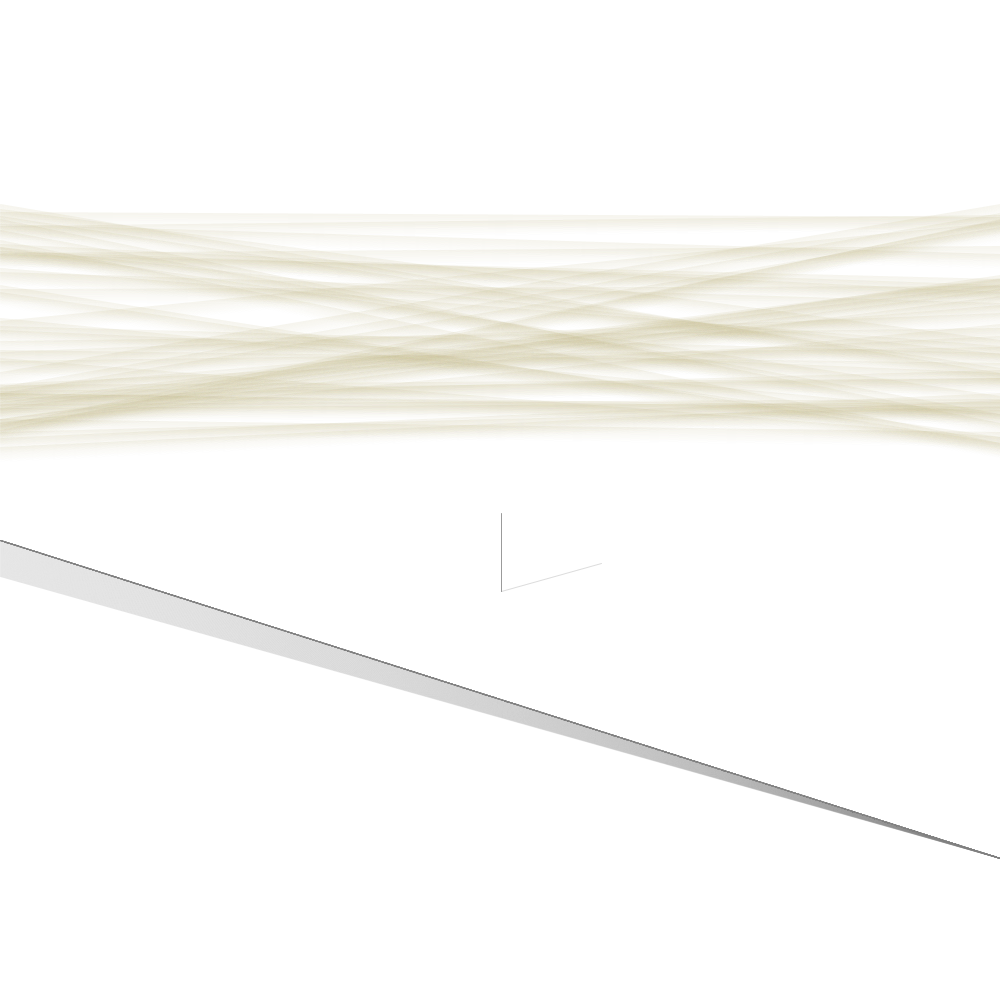
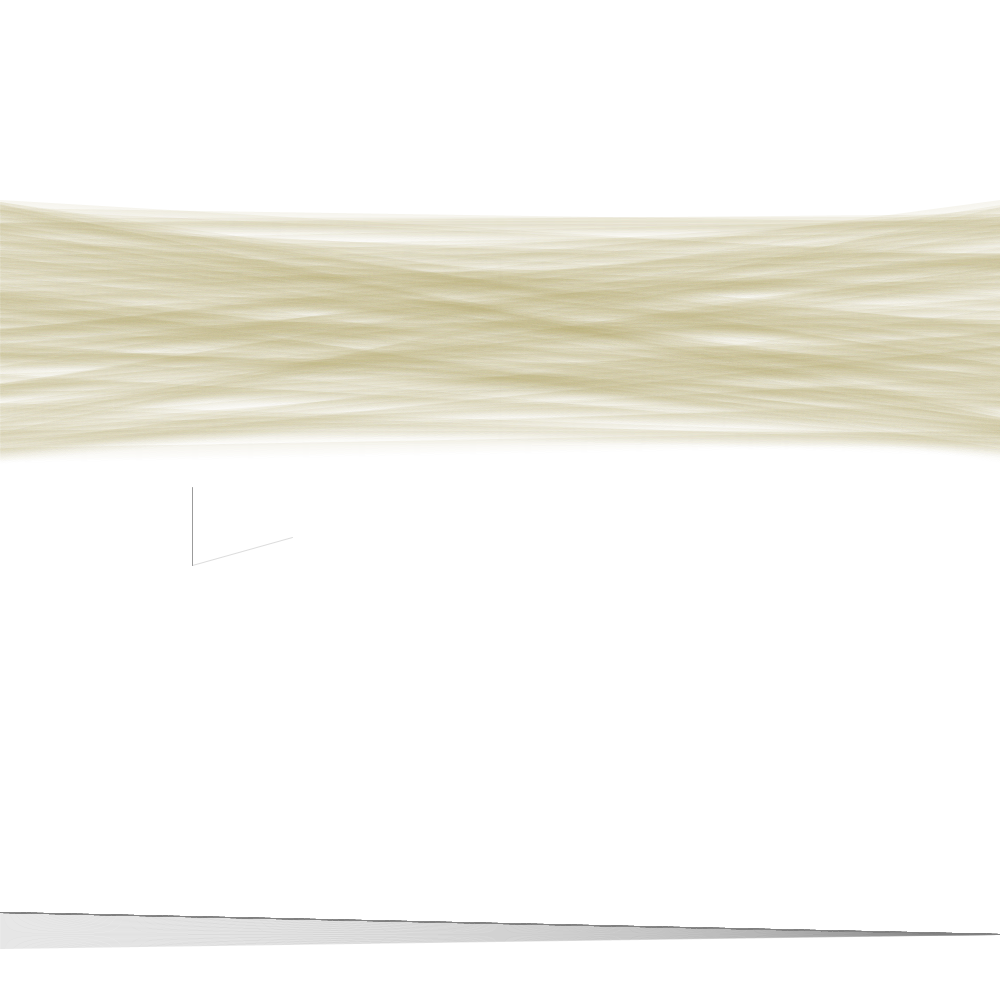
°}[*><*]{°

diff --git a/rust-fragments/blue-lines/src/main.rs b/rust-fragments/blue-lines/src/main.rs
@@ -8,39 +8,41 @@ use nannou::rand::random_range;
 
 fn main() {
     nannou::app(model)
-        .loop_mode(LoopMode::loop_ntimes(199))
+        .loop_mode(LoopMode::loop_ntimes(499))
         .update(update)
-        .simple_window(view)
+        .view(view)
+        //.simple_window(view)
         .run();
 }
 
 struct Model {
-    occam: Vec<f32>
+    occam: Vec<(f32,f32)>
 }
 
 fn model(app: &App) -> Model {
+    app.new_window()
+    .size(1000,1000)
+    .build()
+    .unwrap();
     Model{
         occam:playground(app)
     }
 }
 
-fn playground(app: &App) -> Vec<f32> {
-    let mut v: Vec<f32>;
-    v = Vec::new();
-    let wichita:i32 = random_range(42,66);
-    let mut i:i32=0;
+fn playground(app: &App) -> Vec<(f32,f32)> {
+    let mut v = Vec::new();
+    let wichita = random_range(42,66);
     let win = app.window_rect();
     let h = win.h();
-    let lulllaby:f32 = h/(wichita as f32);
-    let mut y1:f32=h/2.0;
-    let mut y2:f32;
-    while i < wichita { // push wichita pairs of values in v
-        y2 = y1+lulllaby-random_range(-5.0,-1.0);
-        v.push(y1);
-        v.push(y2);
+    let lulllaby = h/(wichita as f32);
+    let mut y1=h/2.0;
+    let mut y2;
+    for _ in 0..wichita{ // push wichita pairs of values in v
+        y2 = y1-lulllaby-random_range(-5.0,-1.0);
+        v.push((y1,y2));
         let bass = y1+lulllaby;
-        y1 = bass;
-        i+=1;
+        println!("y1: {y1}; y2: {y2}");
+        y1 = y1-lulllaby;
     }
     return v
 }
@@ -55,21 +57,17 @@ fn view(app: &App, model: &Model, frame: Frame){
     let h = app.window_rect().h();
     let w = app.window_rect().w();
     let nb = model.occam.len();
-    let mut rex = 0; //index to iterate on occam
-    while rex < nb{
+    for (y1, y2) in &model.occam{
         let mut x = -w/2.0 +random_range(-77.0,77.0);
-        let y1 = model.occam.get(rex);
-        let y2 = model.occam.get(rex+1);
-        let off = y2-y1;
+        let off = *y2-*y1;
         while x<w/2.0{
             draw.rect()
             .color(hsla(0.0,1.0,1.0,random_range(0.3,0.9)))//360.0/x.abs()
-            .x_y(x,y1)
+            .x_y(x,*y1)
             .w_h(111.0,off);
             let will = x + 111.0 +random_range(-77.0,7.0);
             x = will;
         }
-        rex += 2;
     }
     draw.to_frame(app,&frame).unwrap();
 }
